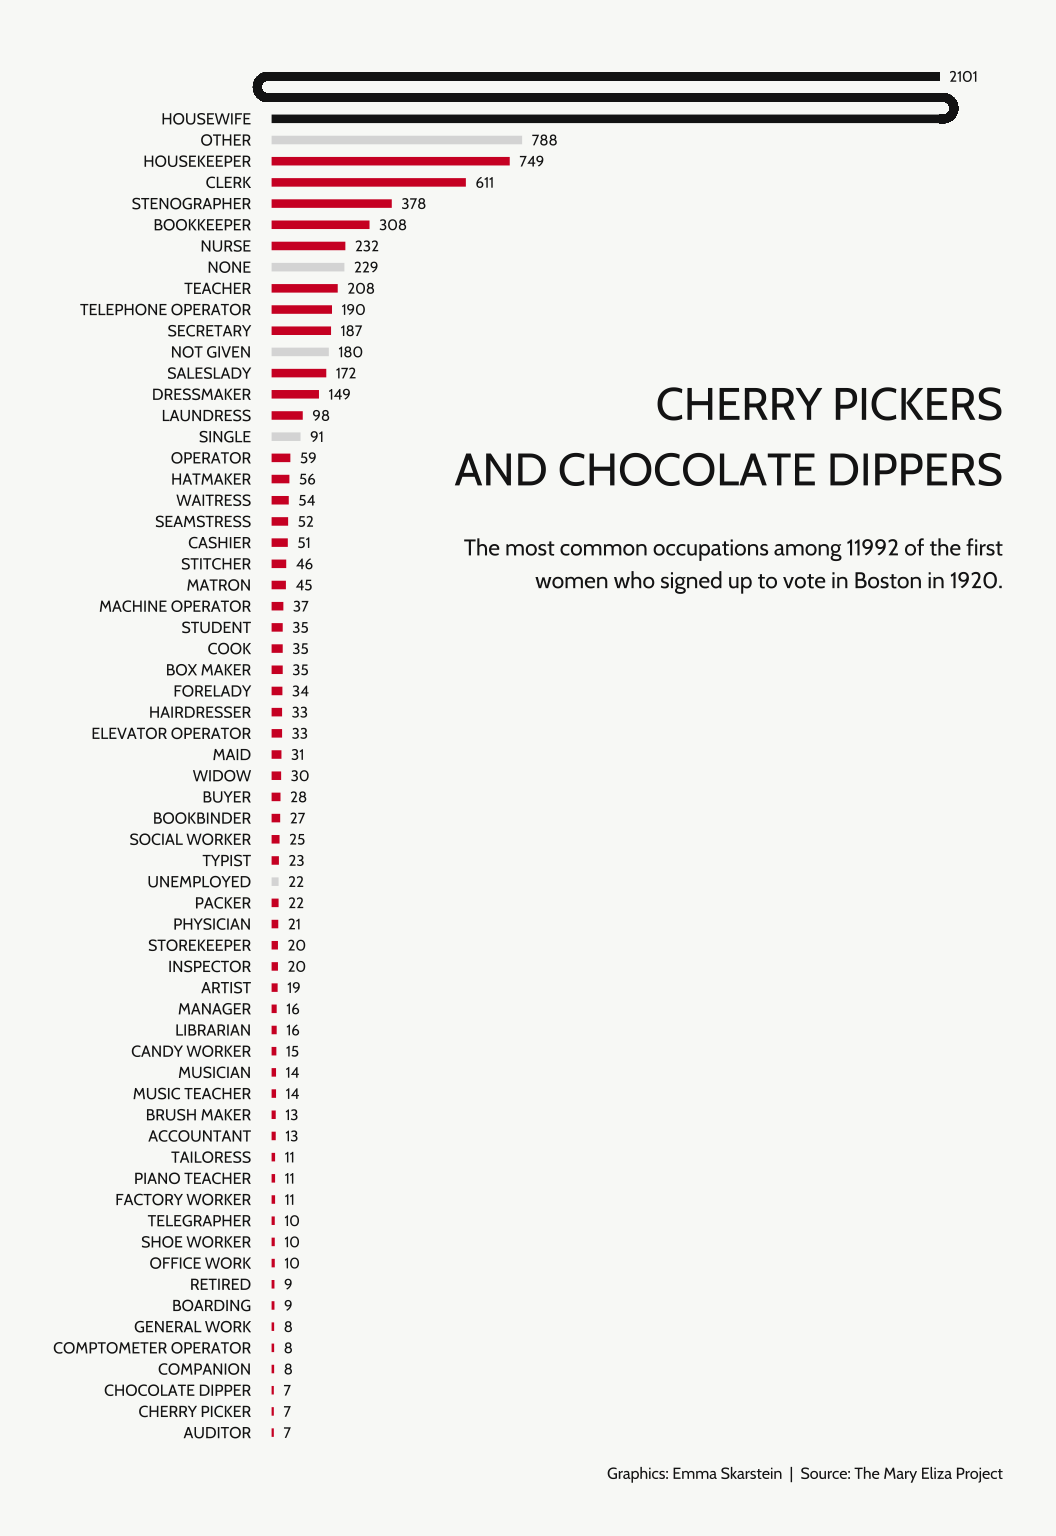
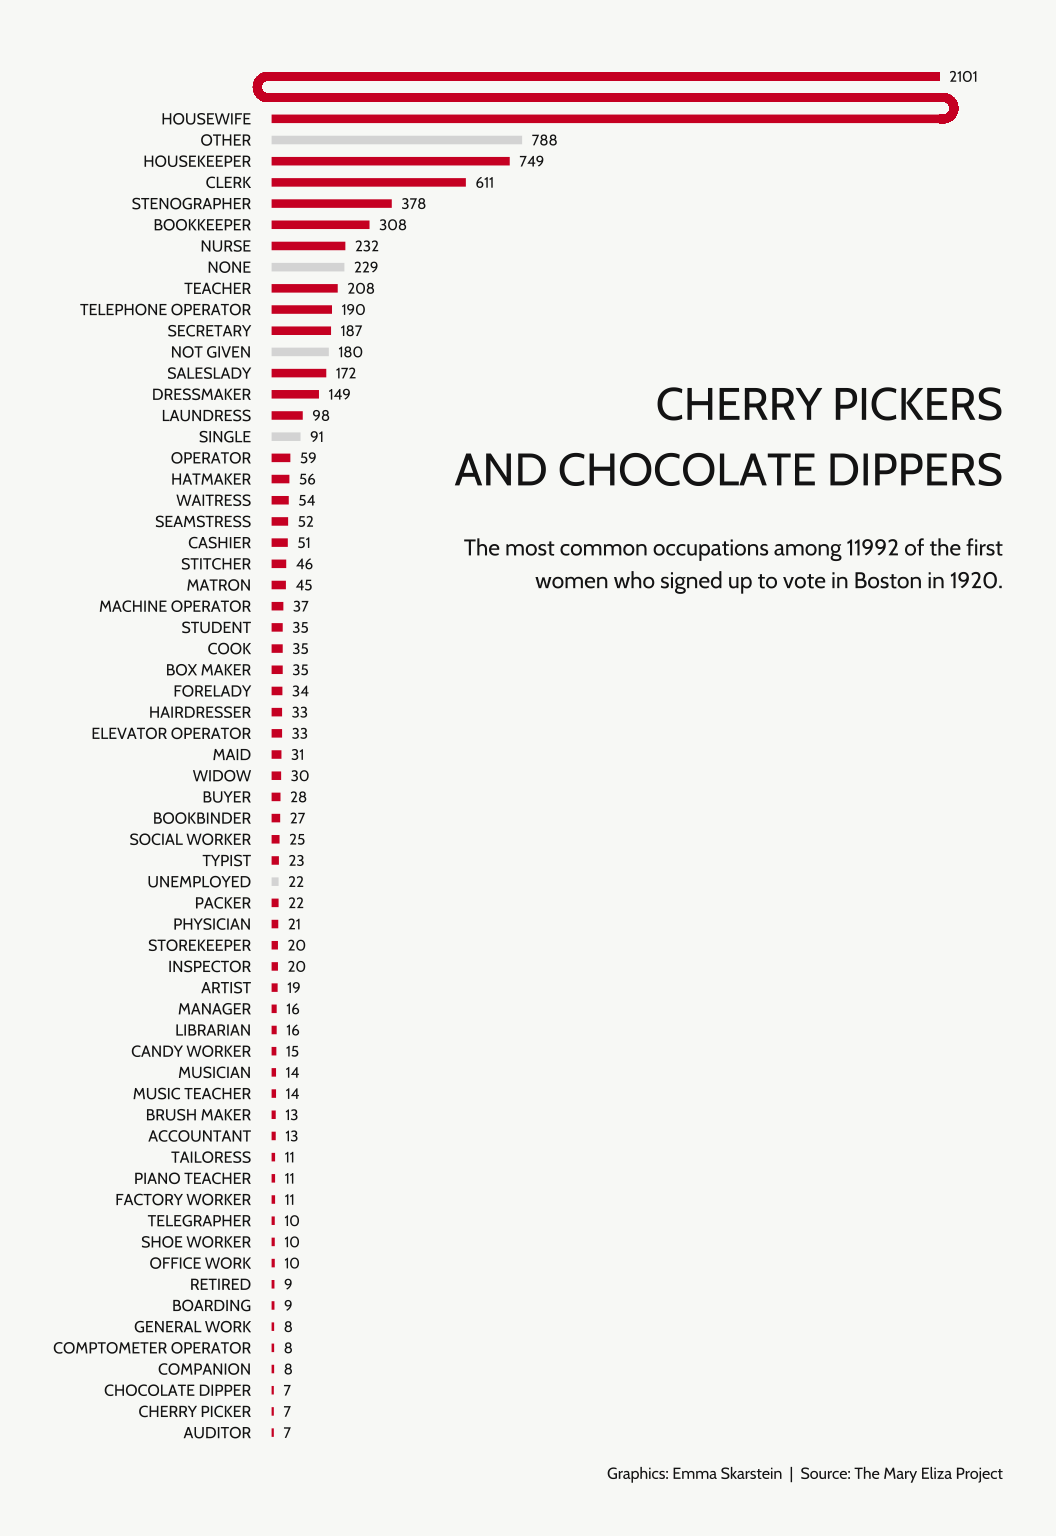
changed colors slightly

Changed region(s): [[0.2188, 0.0312, 0.9062, 0.0938]]

diff --git a/_posts/2023-02-23-what-did-women-work-with-in-1920-a-data-visualization-case-study/what-did-women-work-with-in-1920-a-data-visualization-case-study.html b/_posts/2023-02-23-what-did-women-work-with-in-1920-a-data-visualization-case-study/what-did-women-work-with-in-1920-a-data-visualization-case-study.html
@@ -1782,7 +1782,7 @@ Figure 1: caption
 <p>I want to highlight some of the bars for emphasis, in this case I prefer doing that by defining a separate color column in the dataset.</p>
 <div class="layout-chunk" data-layout="l-body">
 <div class="sourceCode">
-<pre class="sourceCode r"><code class="sourceCode r"><span><span class='va'>col_housewife</span> <span class='op'>&lt;-</span> <span class='st'>"#191919"</span></span>
+<pre class="sourceCode r"><code class="sourceCode r"><span><span class='va'>col_housewife</span> <span class='op'>&lt;-</span> <span class='st'>"#D2042D"</span></span>
 <span><span class='va'>occupations_clean</span> <span class='op'>&lt;-</span> <span class='va'>occupations_clean</span> <span class='op'><a href='https://magrittr.tidyverse.org/reference/pipe.html'>%&gt;%</a></span> </span>
 <span>  <span class='fu'><a href='https://dplyr.tidyverse.org/reference/mutate.html'>mutate</a></span><span class='op'>(</span>bar_color <span class='op'>=</span> <span class='fu'><a href='https://dplyr.tidyverse.org/reference/case_when.html'>case_when</a></span><span class='op'>(</span><span class='va'>occupation</span> <span class='op'>==</span> <span class='st'>"HOUSEWIFE"</span> <span class='op'>~</span> <span class='va'>col_housewife</span>,</span>
 <span>                               <span class='va'>occupation</span> <span class='op'><a href='https://rdrr.io/r/base/match.html'>%in%</a></span> </span>

diff --git a/docs/posts/2023-02-23-what-did-women-work-with-in-1920-a-data-visualization-case-study/index.html b/docs/posts/2023-02-23-what-did-women-work-with-in-1920-a-data-visualization-case-study/index.html
@@ -2404,7 +2404,7 @@ Figure 1: caption
 <p>I want to highlight some of the bars for emphasis, in this case I prefer doing that by defining a separate color column in the dataset.</p>
 <div class="layout-chunk" data-layout="l-body">
 <div class="sourceCode">
-<pre class="sourceCode r"><code class="sourceCode r"><span><span class='va'>col_housewife</span> <span class='op'>&lt;-</span> <span class='st'>"#191919"</span></span>
+<pre class="sourceCode r"><code class="sourceCode r"><span><span class='va'>col_housewife</span> <span class='op'>&lt;-</span> <span class='st'>"#D2042D"</span></span>
 <span><span class='va'>occupations_clean</span> <span class='op'>&lt;-</span> <span class='va'>occupations_clean</span> <span class='op'><a href='https://magrittr.tidyverse.org/reference/pipe.html'>%&gt;%</a></span> </span>
 <span>  <span class='fu'><a href='https://dplyr.tidyverse.org/reference/mutate.html'>mutate</a></span><span class='op'>(</span>bar_color <span class='op'>=</span> <span class='fu'><a href='https://dplyr.tidyverse.org/reference/case_when.html'>case_when</a></span><span class='op'>(</span><span class='va'>occupation</span> <span class='op'>==</span> <span class='st'>"HOUSEWIFE"</span> <span class='op'>~</span> <span class='va'>col_housewife</span>,</span>
 <span>                               <span class='va'>occupation</span> <span class='op'><a href='https://rdrr.io/r/base/match.html'>%in%</a></span> </span>
